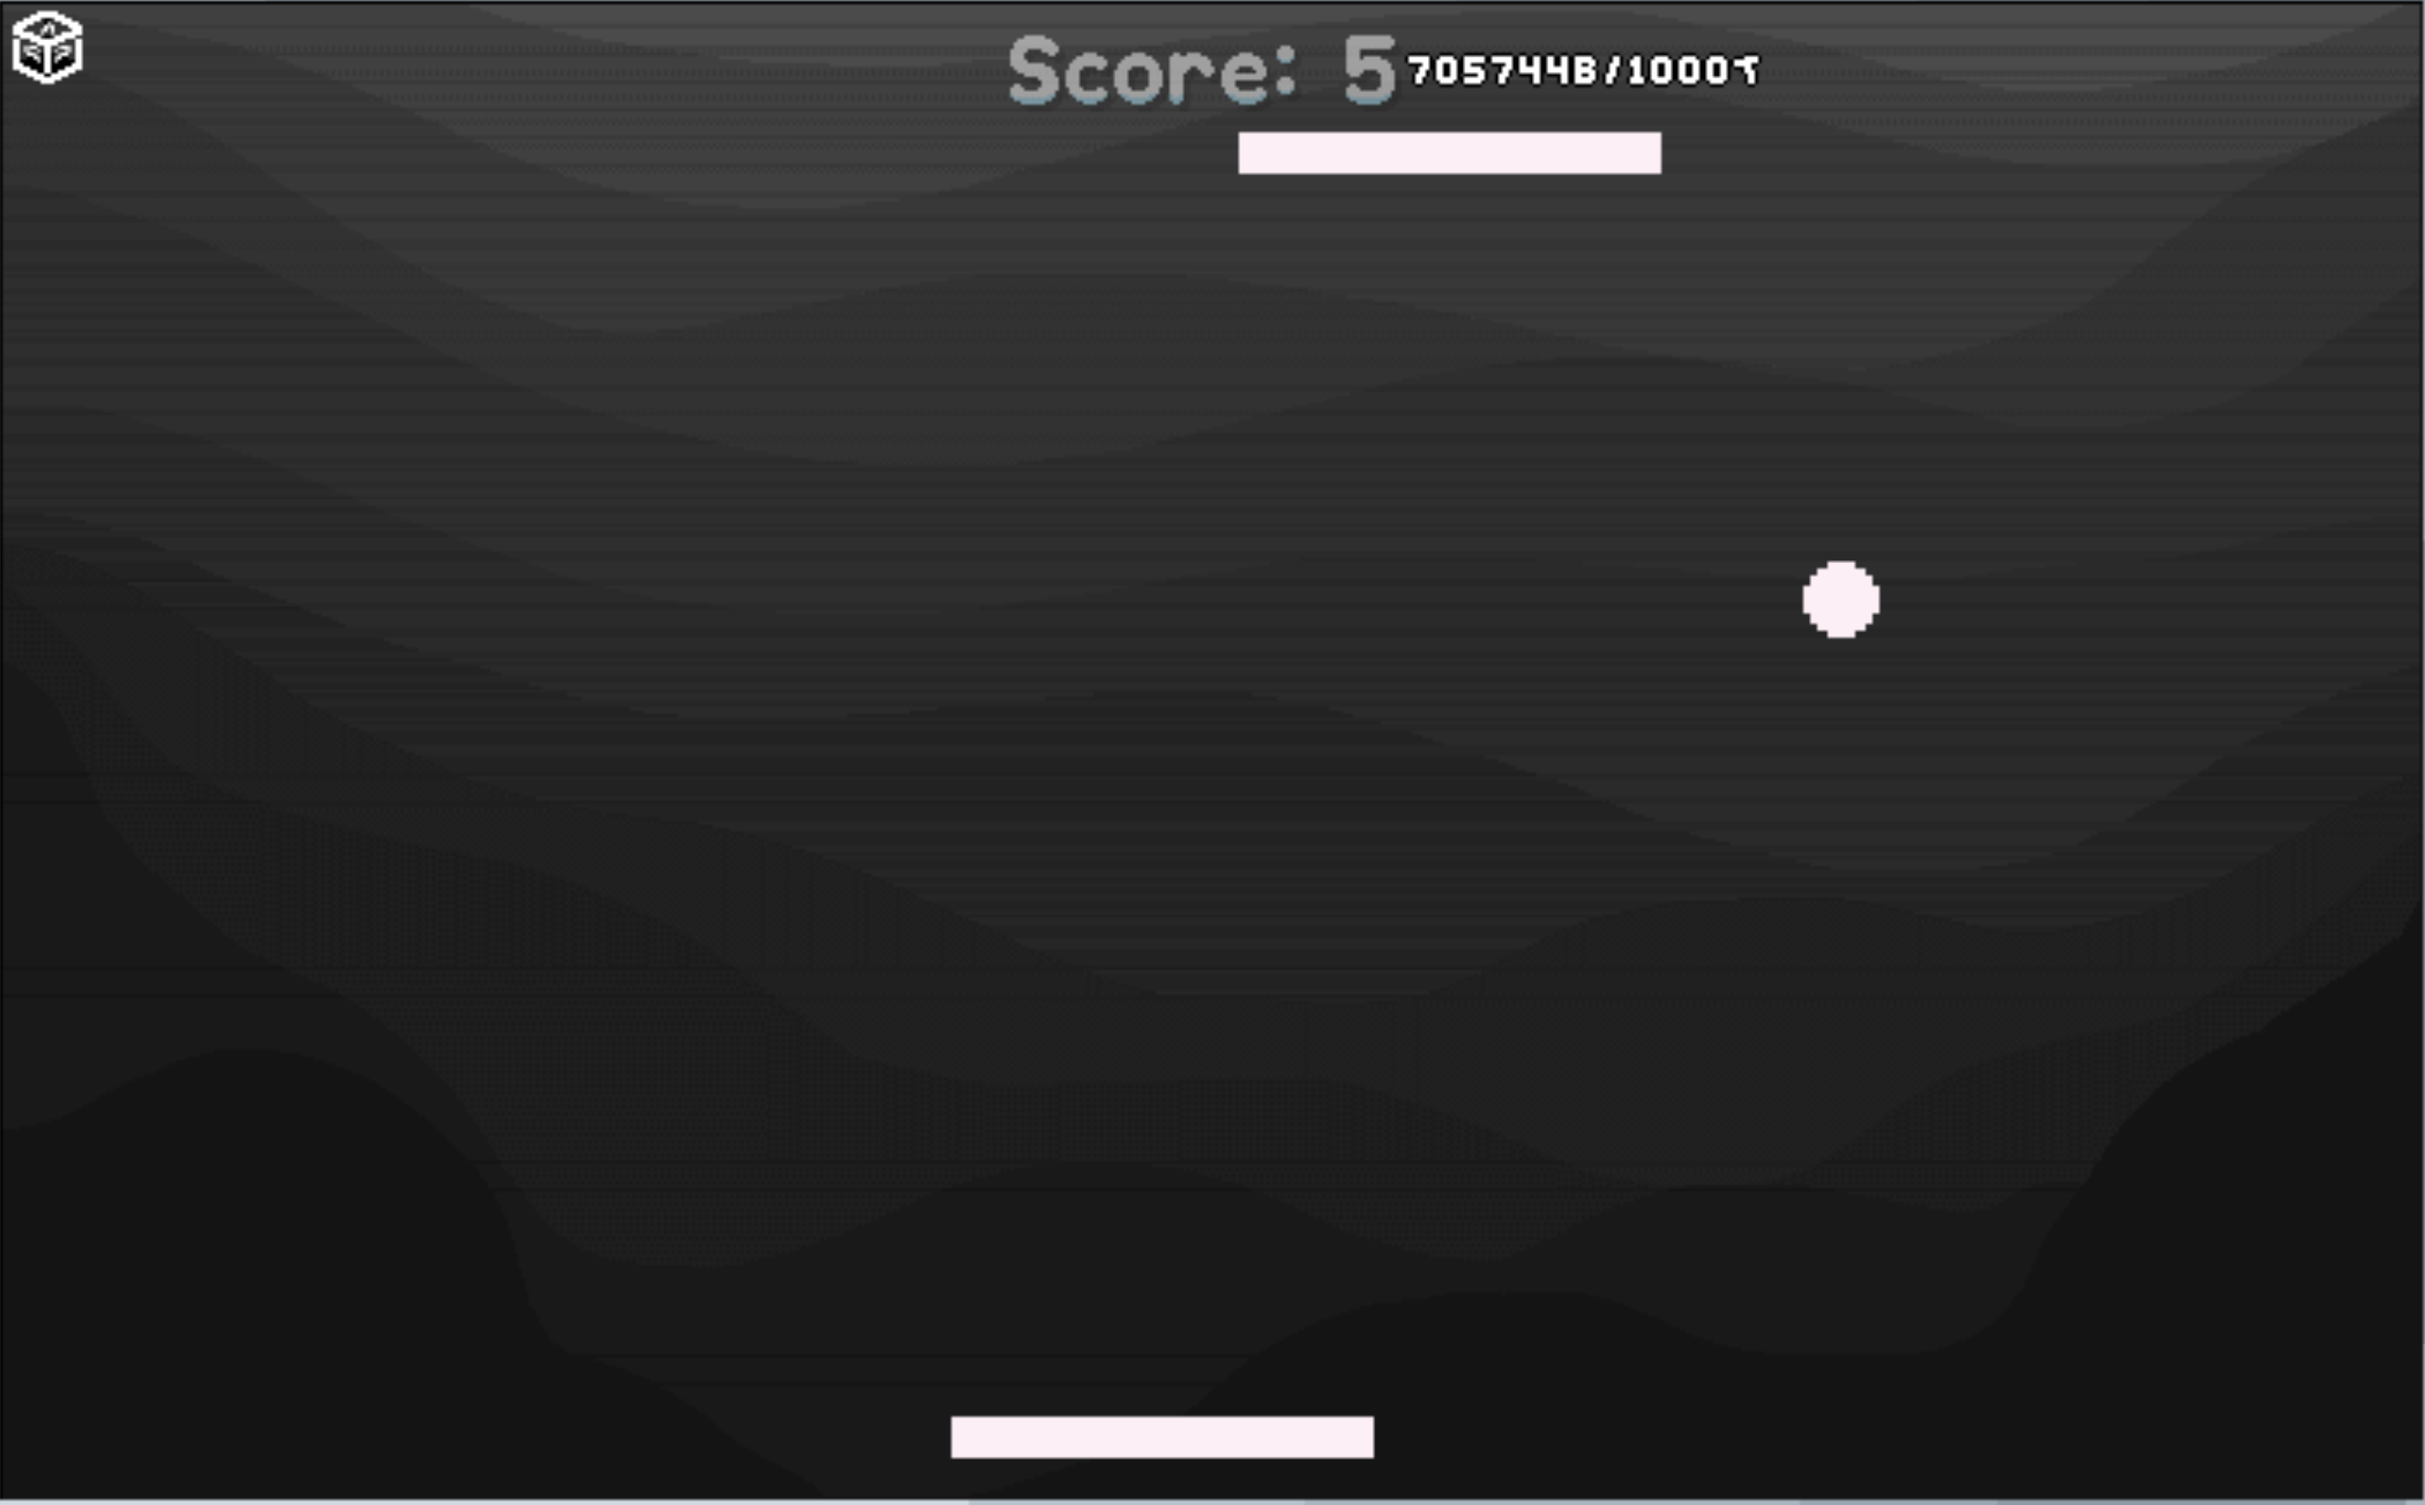
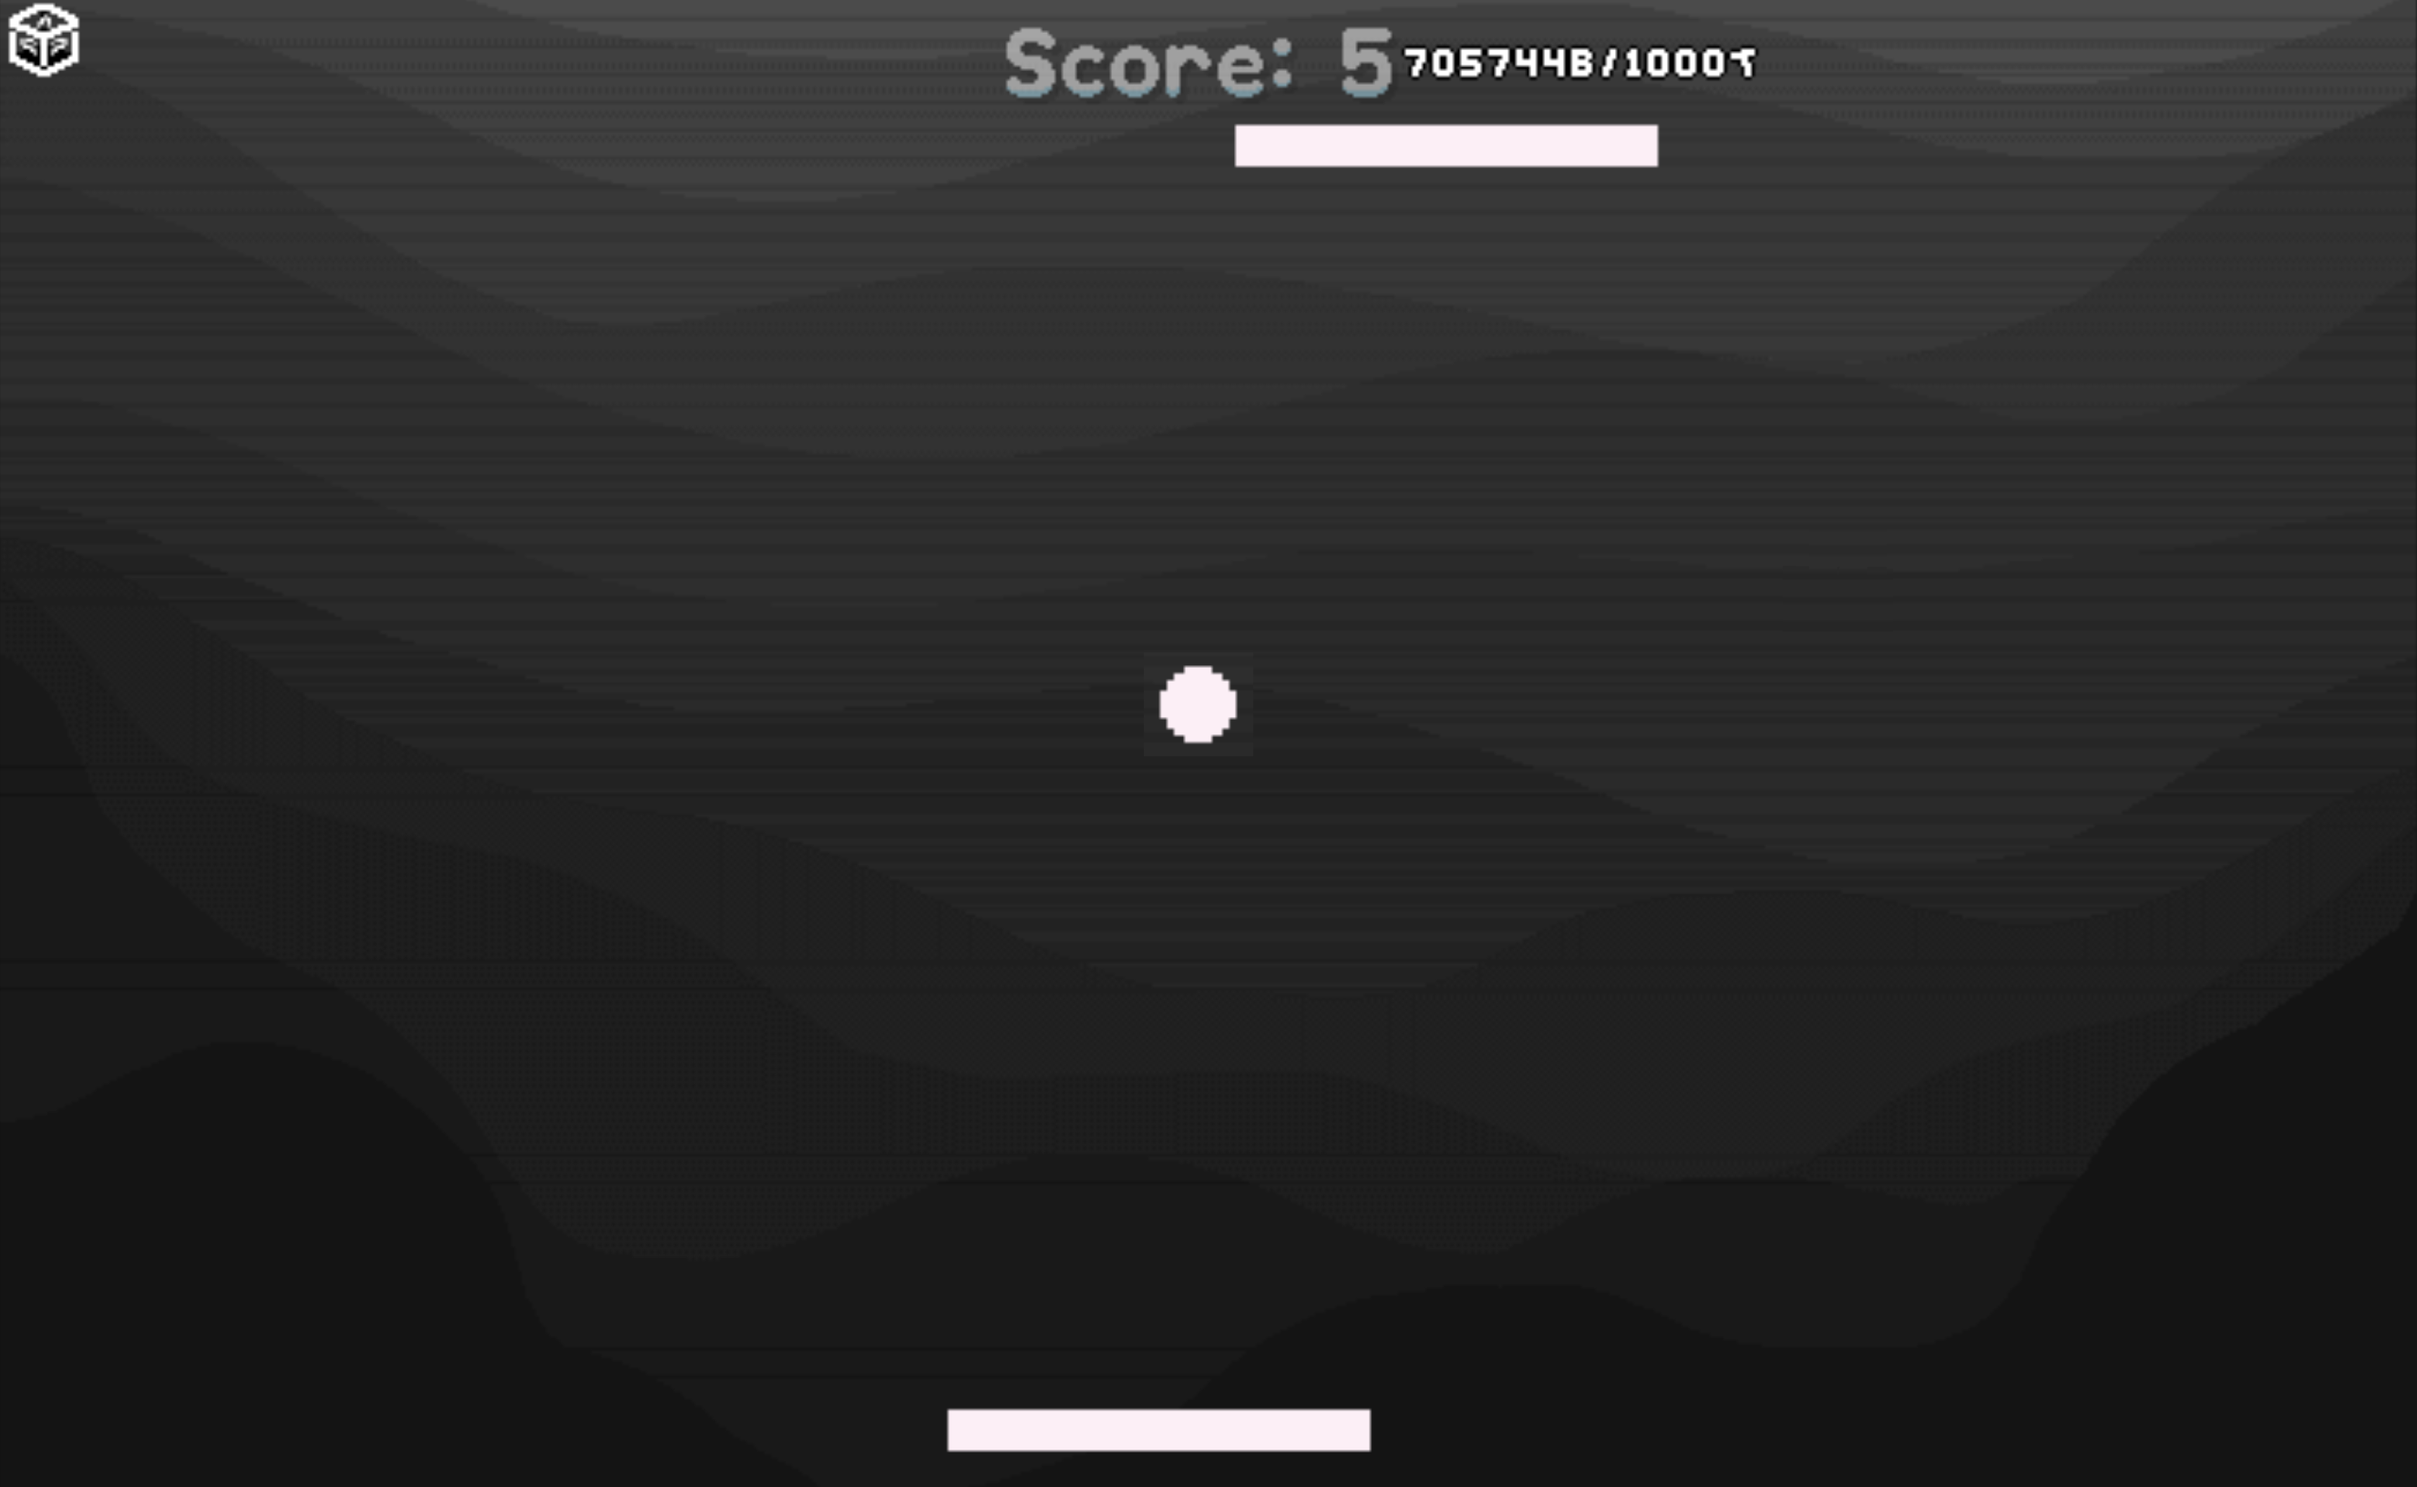
centered pong

diff --git a/process_test.py b/process_test.py
@@ -108,8 +108,6 @@ def get_play_area(img):
     return x, y, w, h
 
 
-pong_pos_list = [(500, 300)]
-
 
 # Top/Bottom mode only
 img = cv2.imread("images/test_idle.png")
@@ -117,6 +115,10 @@ img = cv2.rotate(img, cv2.ROTATE_90_COUNTERCLOCKWISE)
 
 # Left/Right mode only
 # img = cv2.imread("images/test_img.png")
+
+# Center of the image starting position
+h, w, c = img.shape
+pong_pos_list = [round(h / 2), round( w/2)]
 
 processed_img = process_img(img)
 pong_pos = get_pong(processed_img)
